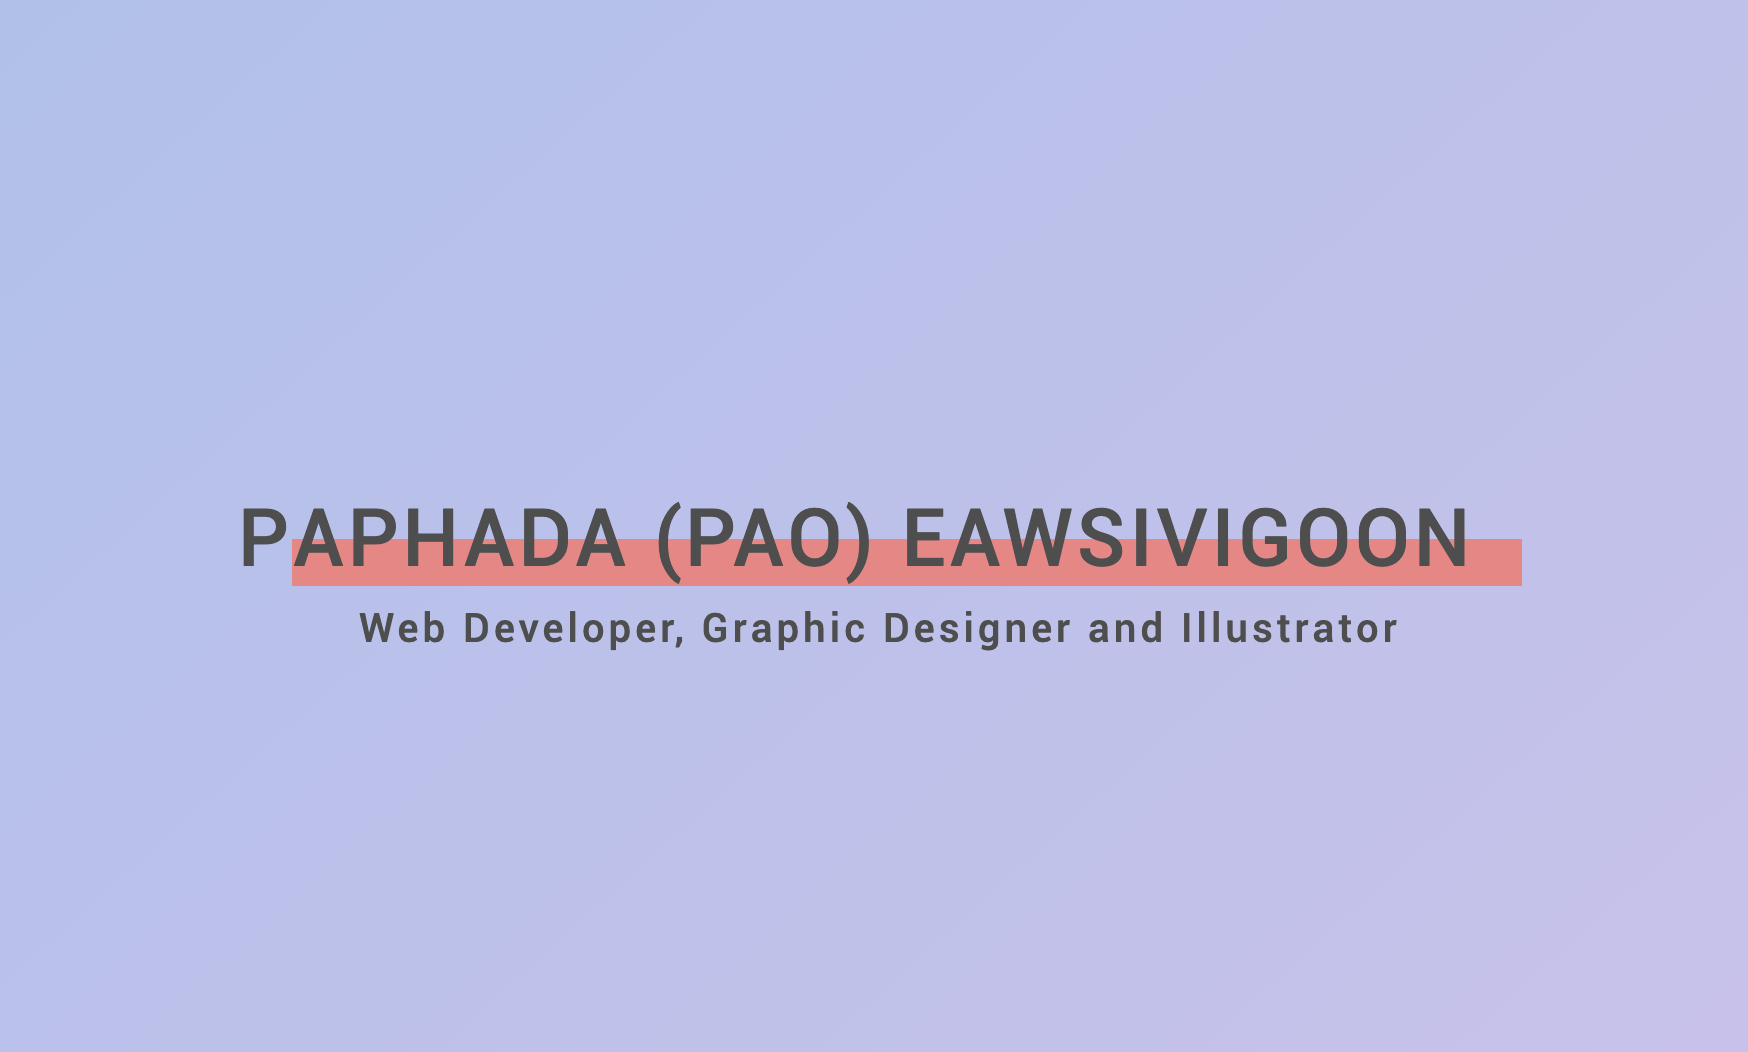
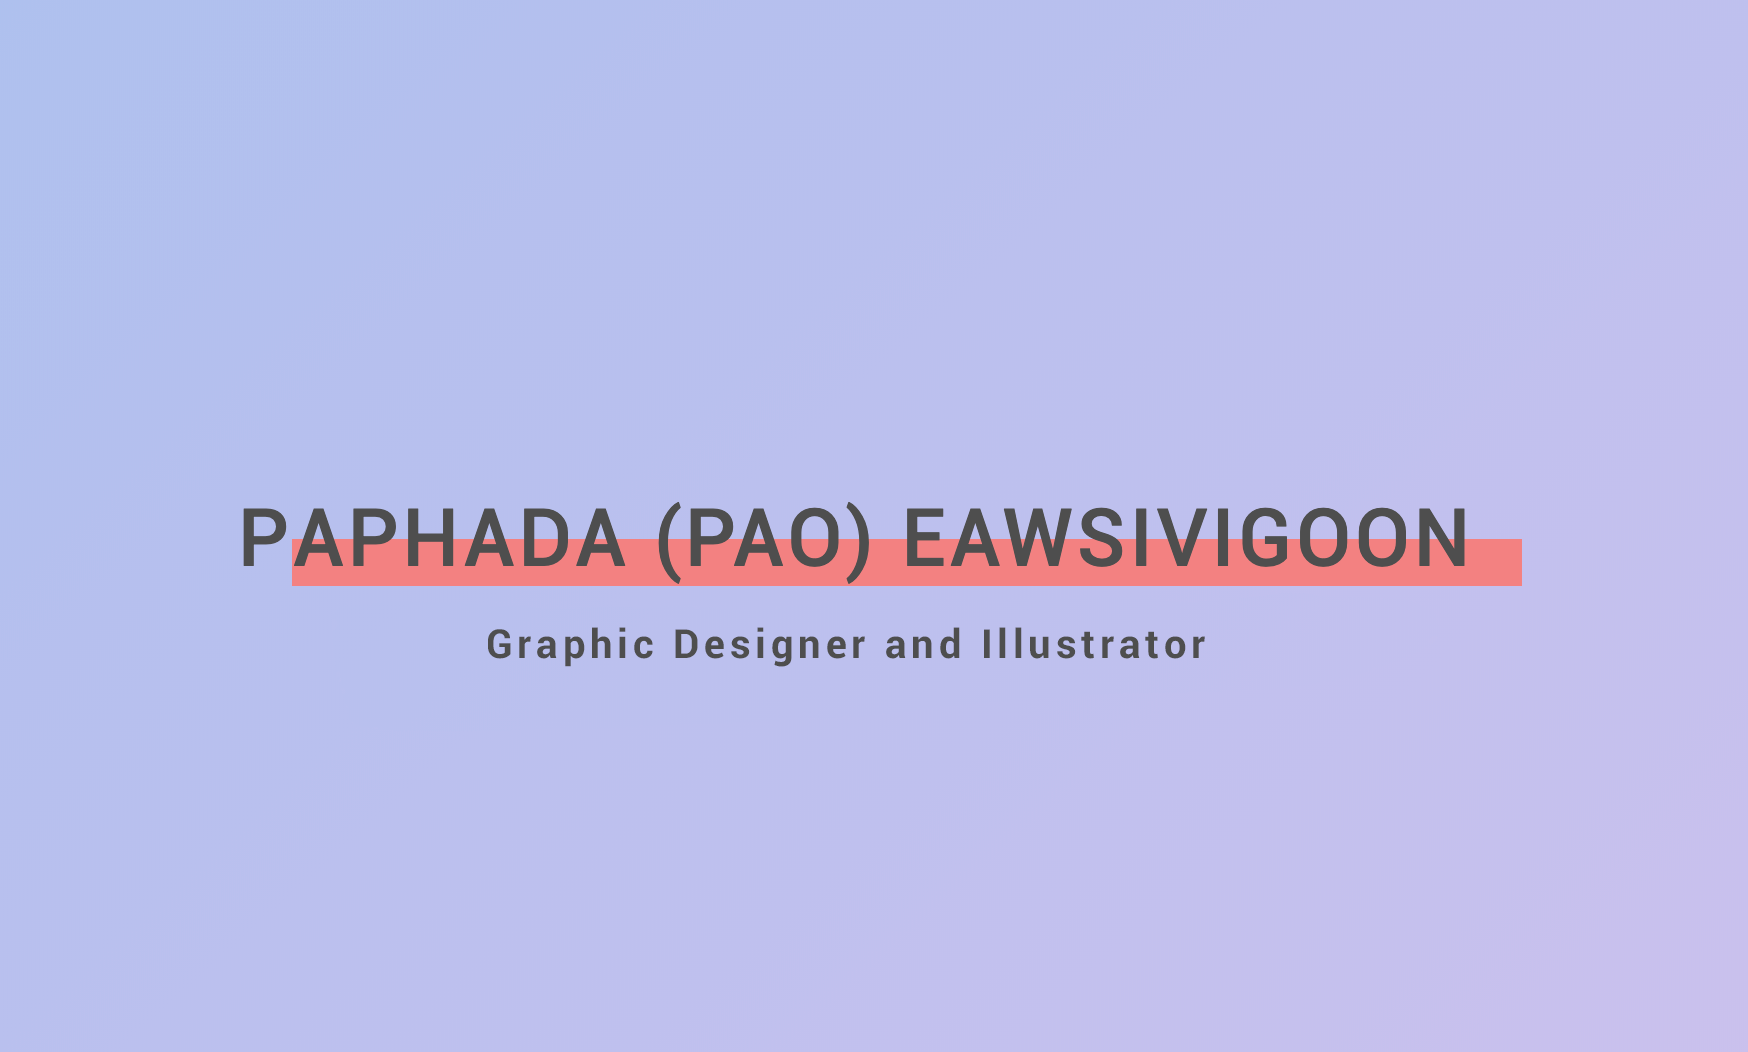
update meta and footer

Changed region(s): [[0.1854, 0.5779, 0.8032, 0.6388]]

diff --git a/index.html b/index.html
@@ -3,17 +3,17 @@
 <head>
 	<title>Paphada Eawsivigoon</title>
   <meta charset="UTF-8">
-  <meta name="description" content="Web Developer, Graphic Designer and Illustrator, based in Bangkok, Thailand">
+  <meta name="description" content="Graphic Designer and Illustrator, based in Bangkok, Thailand">
   <!-- Open Graph / Facebook -->
   <meta property="og:type" content="website">
   <meta property="og:url" content="https://www.paphada-e.com/">
-  <meta property="og:description" content="Web Developer, Graphic Designer and Illustrator, based in Bangkok, Thailand">
+  <meta property="og:description" content="Graphic Designer and Illustrator, based in Bangkok, Thailand">
   <meta property="og:image" content="img/meta_image.png">
 
   <!-- Twitter -->
   <meta property="twitter:card" content="summary_large_image">
   <meta property="twitter:url" content="https://www.paphada-e.com/">
-  <meta property="twitter:description" content="Web Developer, Graphic Designer and Illustrator, based in Bangkok, Thailand">
+  <meta property="twitter:description" content="Graphic Designer and Illustrator, based in Bangkok, Thailand">
   <meta property="twitter:image" content="img/meta_image.png">
 
   <meta name="keywords" content="Pao Eawsivigoon, Paphada Eawsivigoon, developer, Ruby on Rails, RoR, HTML, Javascript, graphic, illustration">
@@ -183,7 +183,7 @@
   </div>
 
   <div class="footer text-center">
-    <p>© Paphada Eawsivigoon 2019</p>
+    <p>© Paphada Eawsivigoon 2020</p>
   </div>
 
   <script>
